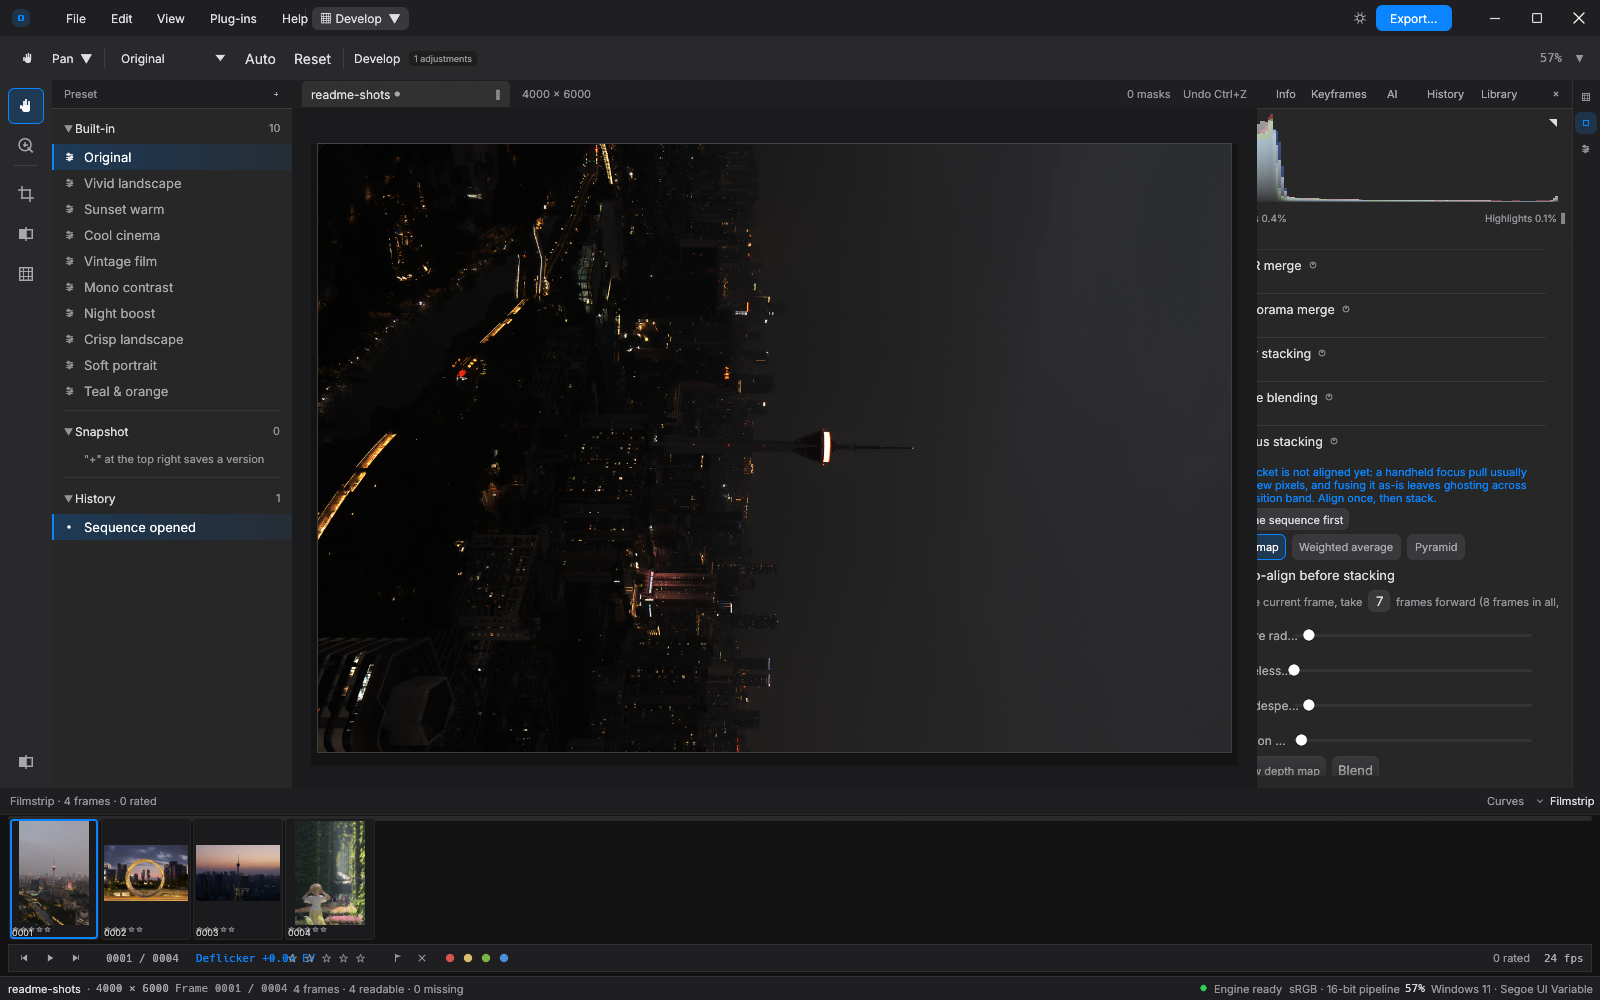
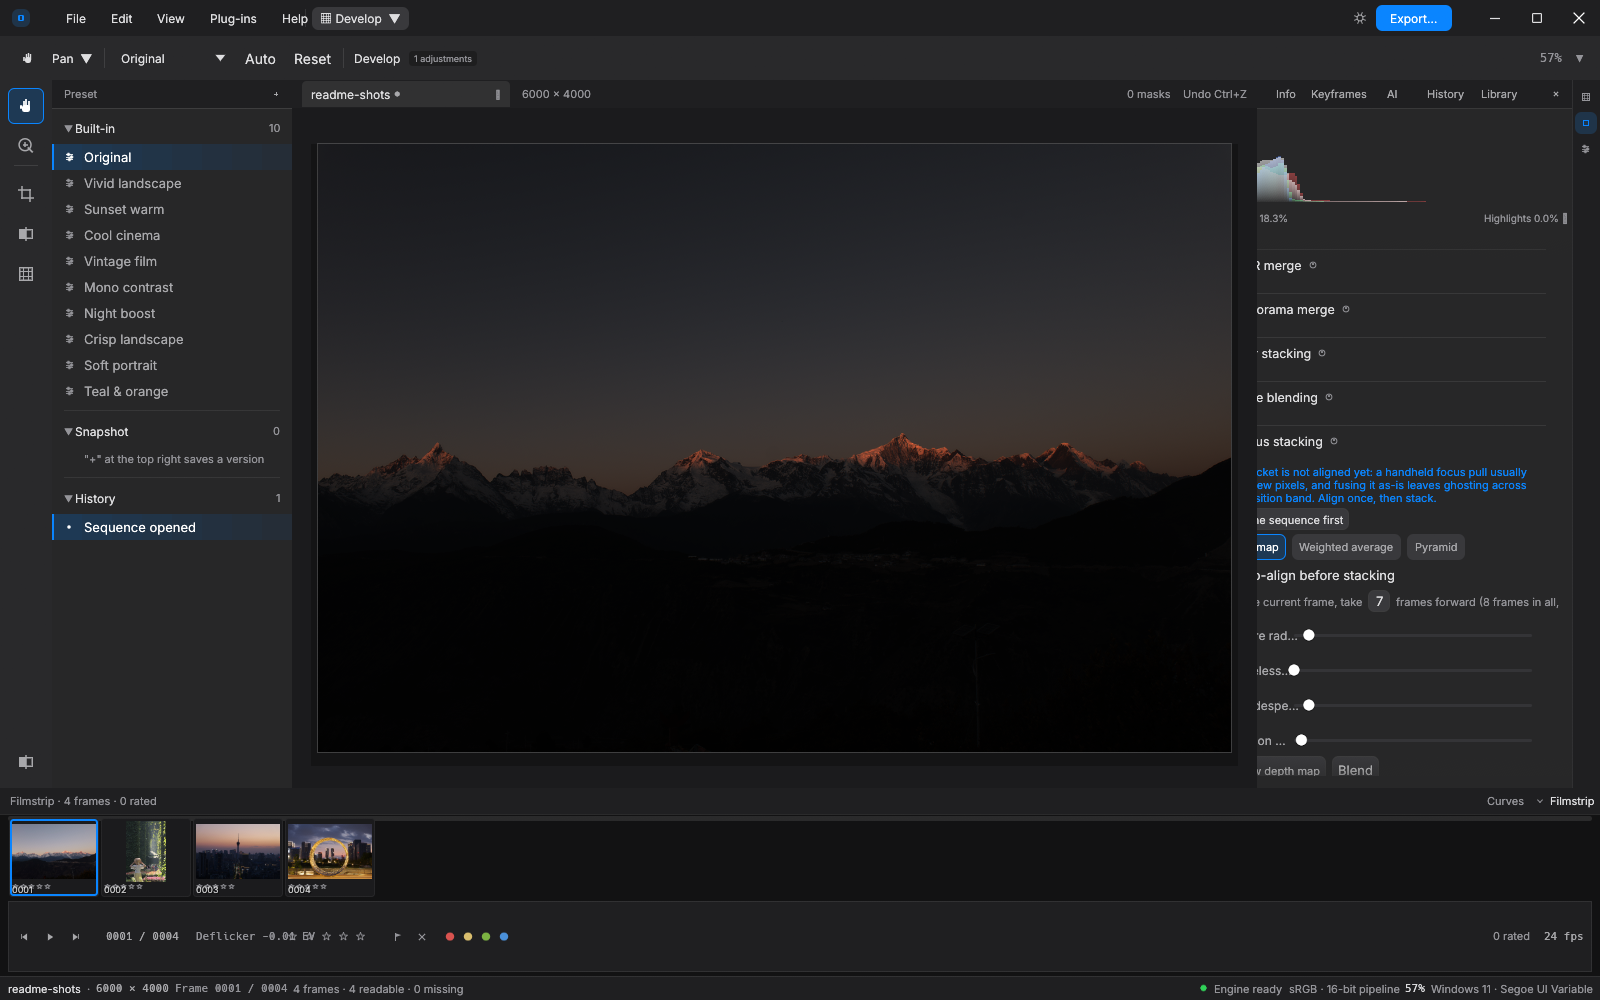
shots: README 示例换 PANA180.RW2，五张图按修复后的解码重截
- 主图（develop.png）换成 PANA180.RW2 的雪山日落（横幅，EXIF Orientation=1，
  本来就该横着显示——「竖幅」样张另有其人：PANA0001/PANA1631 是 Orientation=8
  的竖拍，全在胶片条里）。序列当前帧 = 自然序第一帧，所以 staging 里 PANA180
  用真名排最前（180 < 2001），三张配角改名 PANA2001–2003 排后——胶片条只显示
  帧序号（timeline.rs 的 format!("{:04}")），改名不上镜，真名记在文档与判据。
- PANA1631（竖拍）留在胶片条第 2 帧：修复后的画布/草图对它是竖的，
  README 无形中多了一道竖幅转正的展示。
- 样张源文件 PANA180.RW2 已放进 samples/cameras/（该目录不入库，
  git status 保持干净，D-C2 的「仓库不新增样张」仍然成立）。
- 五张 PNG 全部按含方向修复的代码重截；readme_shots 的 D-C1/D-C2 判据
  （尺寸/断链/脚本与文档逐字一致）全绿。
- 同步改：scripts/shots-readme.sh（staging 映射 + 注释）、
  readme_shots.rs 的 SAMPLES、docs/README-截图.md 与 .en.md。

更正一个前提：任务里说「PANA180 为竖构图」，实测它是横幅（传感器
6008×4008、Orientation=1，解码出的内容也是正的横幅日落）。竖幅的是
PANA0001 与 PANA1631（两者 Orientation=8，画布此前横躺 90°，上一提交已修）。
若确实想用竖幅做主图，把 shots-readme.sh 里 copy_staging 的两行对调即可。

diff --git a/crates/aevum-ui/tests/suite/readme_shots.rs b/crates/aevum-ui/tests/suite/readme_shots.rs
@@ -49,13 +49,16 @@ fn root() -> PathBuf {
 /// Renaming means changing all three at once -- deliberately not "one side is the truth".
 const SHOTS: [&str; 5] = ["develop", "sequence", "deflicker", "compose", "render"];
 
-/// staging 用的四张真实样张。
+/// staging 用的四张真实样张（`samples/cameras/` 里的真名）。进 staging 后三张配角
+/// 改名排在 PANA180 之后（自然序保证它当第一帧），映射见 `scripts/shots-readme.sh`。
 ///
-/// The four real samples used for staging.
+/// The four real samples used for staging (real names under `samples/cameras/`). Inside
+/// staging the three companions are renamed to sort after PANA180 (natural order makes it
+/// the first frame); the mapping lives in `scripts/shots-readme.sh`.
 const SAMPLES: [&str; 4] = [
-    "PANA0001.RW2",
-    "PANA0450.RW2",
+    "PANA180.RW2",
     "PANA1631.RW2",
+    "PANA0450.RW2",
     "PANA0198.JPG",
 ];
 

diff --git a/docs/README-截图.en.md b/docs/README-截图.en.md
@@ -17,8 +17,11 @@ bash scripts/shots-readme.sh
 The script does three things:
 
 1. copies the four PANA samples from `samples/cameras/` into `target/readme-shots/` to serve
-   as one sequence (the staging directory lives under `target/`: it is already gitignored, so
-   `git status` stays clean, and the sequence root shown in the info panel is identical on
+   as one sequence (PANA180 keeps its real name as the first frame -- the current frame is
+   whatever sorts first in natural order; the three companions are renamed `PANA2001-2003`
+   inside staging to sort after it, and the filmstrip prints frame numbers only, so the
+   renames never show; the staging directory lives under `target/`: it is already gitignored,
+   so `git status` stays clean, and the sequence root shown in the info panel is identical on
    every run);
 2. calls `aevum.exe --open <staging> --shot assets/shots/<name>.png …` once per shot;
 3. applies the **60 KB blank guard** to each (the same line as `scripts/shots.sh`) -- a flat
@@ -45,10 +48,10 @@ target/release/aevum.exe --open <staging> --shot assets/shots/develop.png --modu
 
 | File | Role |
 |---|---|
-| `PANA0001.RW2` | frame 1 of the staging sequence (night city, develop's first frame) |
-| `PANA0450.RW2` | frame 2 |
-| `PANA1631.RW2` | frame 3 |
-| `PANA0198.JPG` | frame 4 |
+| `PANA180.RW2` | **the hero** (landscape sunset, Orientation=1); keeps its real name as frame 1 of staging |
+| `PANA1631.RW2` | frame 2 of staging (renamed `PANA2001.RW2`) -- a **portrait** shot (Orientation=8), kept in the strip to prove the upright fix |
+| `PANA0450.RW2` | frame 3 of staging (renamed `PANA2002.RW2`) |
+| `PANA0198.JPG` | frame 4 of staging (renamed `PANA2003.JPG`) |
 
 Constraints: **these four only**. Never add files to `samples/cameras/`, and never put
 fixture images (synthesised demo sequences) into the README -- fixtures are for the tests,

diff --git a/docs/README-截图.md b/docs/README-截图.md
@@ -16,6 +16,8 @@ bash scripts/shots-readme.sh
 脚本做三件事：
 
 1. 把 `samples/cameras/` 的四张 PANA 样张拷进 `target/readme-shots/` 当一个序列
+   （PANA180 用真名当第一帧——当前帧就是自然序最靠前的那个；三张配角在 staging 里
+   改名 `PANA2001–2003` 排到它后面，胶片条只显示帧序号，改名不上镜）
    （staging 目录开在 `target/` 下：`.gitignore` 已盖住它，`git status` 保持干净，
    而且界面信息面板显示的序列根路径每次重截都完全一致）；
 2. 逐张调 `aevum.exe --open <staging> --shot assets/shots/<名字>.png …`；
@@ -42,10 +44,10 @@ target/release/aevum.exe --open <staging> --shot assets/shots/develop.png --modu
 
 | 文件 | 用途 |
 |---|---|
-| `PANA0001.RW2` | staging 的第 1 帧（夜景城市，显影首帧） |
-| `PANA0450.RW2` | staging 的第 2 帧 |
-| `PANA1631.RW2` | staging 的第 3 帧 |
-| `PANA0198.JPG` | staging 的第 4 帧 |
+| `PANA180.RW2` | **主图**（横幅日落，Orientation=1）；staging 里用真名当第 1 帧 |
+| `PANA1631.RW2` | staging 第 2 帧（改名 `PANA2001.RW2`）——**竖拍**（Orientation=8），在胶片条里验证竖幅转正 |
+| `PANA0450.RW2` | staging 第 3 帧（改名 `PANA2002.RW2`） |
+| `PANA0198.JPG` | staging 第 4 帧（改名 `PANA2003.JPG`） |
 
 约束：**只用这四张**。不许往 `samples/cameras/` 里加文件，也不许把夹具图（合成生成的
 演示序列）放进 README——夹具图是给判据用的，README 是给人看的。staging 是**拷贝**，
